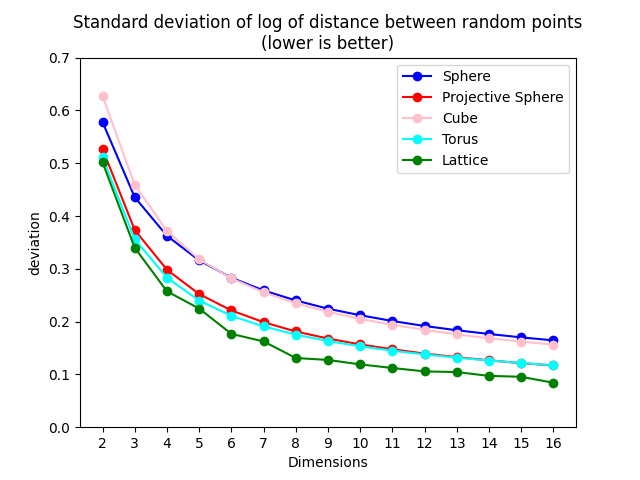
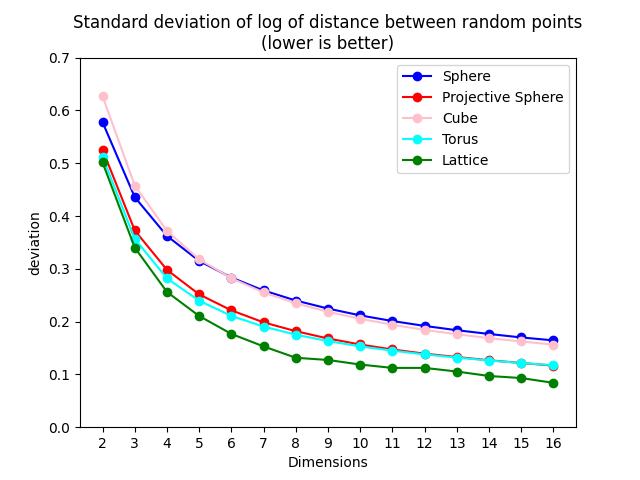
added better and more performant implementations

diff --git a/benchmark.py b/benchmark.py
@@ -141,7 +141,58 @@ class point_on_torus:
                     r.append(oth)
         return (sum((a-b)**2 for (a, b) in zip(self.coords, r))**(1/2), r)
 
-last_dimensions_to_8 = [-1, -1, -1, -1, -1, 4**(1/2), 3**(1/2), 2**(1/2), 1**(1/2)]
+offsets_7 = [[0] * 7,
+        [0, 0, 0, 1, 1, 1, 1],
+        [0, 1, 1, 0, 0, 1, 1],
+        [0, 1, 1, 1, 1, 0, 0],
+        [1, 0, 1, 0, 1, 0, 1],
+        [1, 0, 1, 1, 0, 1, 0],
+        [1, 1, 0, 0, 1, 1, 0],
+        [1, 1, 0, 1, 0, 0, 1]]
+
+class point_7:
+    def __init__(self, other_coords = None):
+        if other_coords:
+            self.coords = [x for x in other_coords]
+        else:
+            self.coords = [uniform(0, 1) for i in range(7)]
+
+    def clone(self):
+        return point_7(self.coords)
+
+    def _canonicalize(self):
+        self.coords = [x % 1 for x in self.coords]
+
+    def distance(self, other):
+        return self._closest(other)[0]
+
+    def move_from(self, other, distance):
+        d, c = self._closest(other)
+        mag = distance/d
+        self.coords = [tocoord + (tocoord-fromcoord)*mag for (tocoord, fromcoord) in zip(self.coords, c)]
+        self._canonicalize()
+
+    def _closest(self, other):
+        mynearest = [(c, (a-c)**2) for a, c in [(a, _c(a, b)) for a, b in zip(self.coords, other.coords)]]
+        alternatenearest = [(c, (a-c)**2) for a, c in [(a, _c(a, b)) for a, b in zip(self.coords, [x + 1/2 for x in other.coords])]]
+        minsum = 10
+        mincoords = None
+        for offsets in offsets_7:
+            vals = [a[b] for a, b in zip(zip(mynearest, alternatenearest), offsets)]
+            newsum = sum(x[1] for x in vals)
+            if newsum < minsum:
+                minsum = newsum
+                mincoords = [x[0] for x in vals]
+        return minsum ** 0.5, mincoords
+
+def _c(a, b):
+    while b > a + 0.5:
+        b -= 1
+    while b < a - 0.5:
+        b += 1
+    return b
+
+last_dimensions_to_8 = [-1, -1, -1, -1, -1, -1, 3**(1/2), -1, 1**(1/2)]
 
 class point_to_8d:
     """
@@ -281,6 +332,81 @@ class point_to_8d:
                     r[lowest_dim] -= 1
                 else:
                     r[lowest_dim] += 1
+        return (sum((a-b)**2 for (a, b) in zip(self.coords, r))**(1/2), r)
+
+class point_to_5d:
+    """
+    Makes a 'face centered' construction by taking a grid and removing all nodes of odd parity
+    """
+    def __init__(self, d, other_coords = None, other_parity = None):
+        if other_coords:
+            self.coords = [x for x in other_coords]
+            self.parity = other_parity
+        else:
+            self.coords = [uniform(0, 1) for x in range(d)]
+            self.parity = randrange(2)
+
+    def clone(self):
+        return point_to_8d(0, self.coords, self.parity)
+
+    def _canonicalize(self):
+        for i in range(len(self.coords)):
+            while self.coords[i] > 1:
+                self.coords[i] -= 1
+                self.parity ^= 1
+            while self.coords[i] < 0:
+                self.coords[i] += 1
+                self.parity ^= 1
+
+    def distance(self, other):
+        return self._closest(other)[0]
+
+    def move_from(self, other, distance):
+        d, c = self._closest(other)
+        mag = distance/d
+        self.coords = [tocoord + (tocoord-fromcoord)*mag for (tocoord, fromcoord) in zip(self.coords, c)]
+        self._canonicalize()
+
+    def _closest(self, other):
+        parity = self.parity ^ other.parity
+        d = len(self.coords)
+        lowest_dim = -1
+        lowest_amount = 2
+        r = []
+        for i in range(d):
+            oc = other.coords[i]
+            mc = self.coords[i]
+            if oc > mc:
+                diff = 2 * (oc - mc) - 1
+                if diff > 0:
+                    r.append(oc - 1)
+                    parity ^= 1
+                    if diff < lowest_amount:
+                        lowest_dim = i
+                        lowest_amount = diff
+                else:
+                    r.append(oc)
+                    if -diff < lowest_amount:
+                        lowest_dim = i
+                        lowest_amount = -diff
+            else:
+                diff = 2 * (mc - oc) - 1
+                if diff > 0:
+                    r.append(oc + 1)
+                    parity ^= 1
+                    if diff < lowest_amount:
+                        lowest_dim = i
+                        lowest_amount = diff
+                else:
+                    r.append(oc)
+                    if -diff < lowest_amount:
+                        lowest_dim = i
+                        lowest_amount = -diff
+        if parity:
+            if r[lowest_dim] > self.coords[lowest_dim]:
+                r[lowest_dim] -= 1
+            else:
+                r[lowest_dim] += 1
         return (sum((a-b)**2 for (a, b) in zip(self.coords, r))**(1/2), r)
 
 last_dimensions = [-1, -1, 2*(3/4)**(1/2), 2*(2/4)**(1/2), 2*(1/4)**(1/2)]
@@ -460,22 +586,22 @@ def benchmark_factory(factory):
         print('%2i %1.2f %1.2f' % (k, mean(results), stdev(results)))
 
 lattice_factories = [lambda: point_to_4d(2), 
-        lambda: point_to_4d(3), 
-        lambda: point_to_4d(4), 
-        lambda: multipoint([point_to_4d(4), point_on_torus(1)]),
+        lambda: point_to_5d(3), 
+        lambda: point_to_5d(4), 
+        lambda: point_to_5d(5),
         lambda: point_to_8d(6),
-        lambda: multipoint([point_to_8d(6), point_on_torus(1)]),
+        point_7,
         lambda: point_to_8d(8),
         lambda: multipoint([point_to_8d(8), point_on_torus(1)]),
         lambda: multipoint([point_to_8d(8), point_to_4d(2)]),
         lambda: multipoint([point_to_8d(8), point_to_4d(3)]),
-        lambda: multipoint([point_to_8d(8), point_to_4d(4)]),
-        lambda: multipoint([point_to_8d(8), point_to_4d(4), point_on_torus(1)]),
+        lambda: multipoint([point_to_8d(8), point_to_5d(4)]),
+        lambda: multipoint([point_to_8d(8), point_to_5d(5)]),
         lambda: multipoint([point_to_8d(8), point_to_8d(6)]),
-        lambda: multipoint([point_to_8d(8), point_to_8d(6), point_on_torus(1)]),
+        lambda: multipoint([point_to_8d(8), point_7()]),
         lambda: multipoint([point_to_8d(8), point_to_8d(8)])]
 
-#benchmark_factory(lattice_factories[8 - 2])
+#benchmark_factory(lambda: point_to_4d(3))
 
 def find_average_distance(factory):
     distances = []
@@ -504,7 +630,7 @@ def show_distances():
     ax.legend()
     plt.show()
 
-#show_distances()
+show_distances()
 
 def close(a, b):
     assert a-b < .00001
@@ -519,5 +645,3 @@ def test_points(factory):
         p3 = p2.clone()
         p2.move_from(p1, 0.1)
         close(0.1, p2.distance(p3))
-
-#test_points(make_multipoint_3_2)
